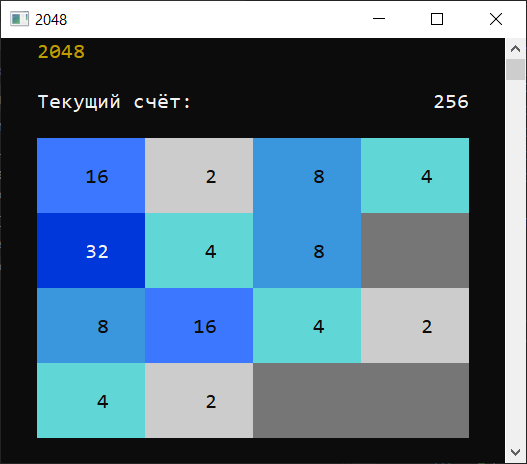
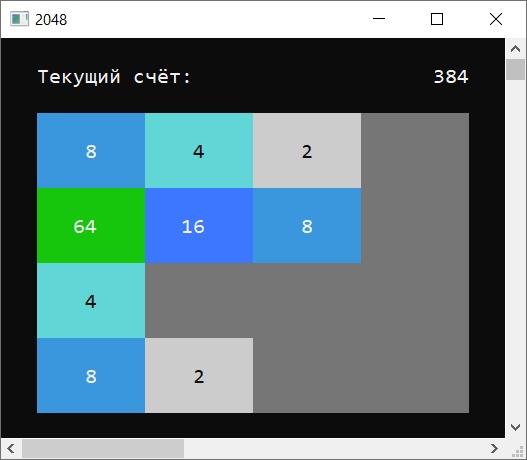
update

diff --git a/CSharpTest/Program.cs b/CSharpTest/Program.cs
@@ -18,6 +18,7 @@ namespace CSharpTest_Console_2048
 
             Restart(ref m);
 
+            //test
             /*for (int i = 0; i < n; i++)
                 for (int j = 0; j < n; j++)
                     m[i, j] = Convert.ToInt32(Math.Pow(2, j + (i * n)));
@@ -27,22 +28,19 @@ namespace CSharpTest_Console_2048
 
             Console.Title = "2048";
             Console.WindowWidth = 3 * 2 + 9 * n;
-            Console.WindowHeight = 4 + 1 + 3 * n;
+            Console.WindowHeight = 3 + 1 + 3 * n;
 
             Console.BackgroundColor = ConsoleColor.Black;
-
-            Console.ForegroundColor = ConsoleColor.DarkYellow;
-            Console.WriteLine("   2048");
-            Console.WriteLine();
             Console.ForegroundColor = ConsoleColor.White;
-            Console.WriteLine("   Текущий счёт:");
+            Console.SetCursorPosition(3, 1);
+            Console.WriteLine("Текущий счёт:");
             
             while (true)
             {
-                Print(ref m, 3, 4);
+                Print(ref m, 3, 3);
                 Console.BackgroundColor = ConsoleColor.Black;
                 Console.ForegroundColor = ConsoleColor.White;
-                Console.SetCursorPosition(20 + 9 * (n - 3), 2);
+                Console.SetCursorPosition(20 + 9 * (n - 3), 1);
                 Console.Write($"{score,10}");
 
                 Console.ForegroundColor = ConsoleColor.Black;
@@ -110,9 +108,15 @@ namespace CSharpTest_Console_2048
                         Console.Write("         ");
                     }
                     Console.SetCursorPosition(left + j * 9, top + i * 3 + 1);
-                    Console.Write($"{m[i, j],6}");
+                    if (m[i, j] < 10)
+                        Console.Write($"{m[i, j],5}");
+                    else if (m[i, j] < 100)
+                        Console.Write($"{m[i, j],5}");
+                    else if (m[i, j] < 1000)
+                        Console.Write($"{m[i, j],6}");
+                    else
+                        Console.Write($"{m[i, j],6}");
                 }
-                //Console.WriteLine();
             }
         }
 
@@ -134,11 +138,11 @@ namespace CSharpTest_Console_2048
                     break;
                 case 8:
                     Console.BackgroundColor = ConsoleColor.DarkCyan;
-                    Console.ForegroundColor = ConsoleColor.Black;
+                    Console.ForegroundColor = ConsoleColor.White;
                     break;
                 case 16:
                     Console.BackgroundColor = ConsoleColor.Blue;
-                    Console.ForegroundColor = ConsoleColor.Black;
+                    Console.ForegroundColor = ConsoleColor.White;
                     break;
                 case 32:
                     Console.BackgroundColor = ConsoleColor.DarkBlue;
@@ -153,19 +157,19 @@ namespace CSharpTest_Console_2048
                     Console.ForegroundColor = ConsoleColor.White;
                     break;
                 case 256:
-                    Console.BackgroundColor = ConsoleColor.DarkYellow;
-                    Console.ForegroundColor = ConsoleColor.Black;
-                    break;
-                case 512:
-                    Console.BackgroundColor = ConsoleColor.Yellow;
-                    Console.ForegroundColor = ConsoleColor.Black;
-                    break;
-                case 1024:
                     Console.BackgroundColor = ConsoleColor.Red;
                     Console.ForegroundColor = ConsoleColor.White;
                     break;
-                case 2048:
+                case 512:
                     Console.BackgroundColor = ConsoleColor.DarkRed;
+                    Console.ForegroundColor = ConsoleColor.White;
+                    break;
+                case 1024:
+                    Console.BackgroundColor = ConsoleColor.Magenta;
+                    Console.ForegroundColor = ConsoleColor.White;
+                    break;
+                case 2048:
+                    Console.BackgroundColor = ConsoleColor.DarkMagenta;
                     Console.ForegroundColor = ConsoleColor.White;
                     break;
                 default:

diff --git a/README.md b/README.md
@@ -1,3 +1,7 @@
-# console 2048
+### С# Console 2048
 
 ![sreenshot](screenshot.png)
+
+Управление: ```стрелки или WASD```  
+Рестарт: ```R```  
+Выход: ```Esc```
